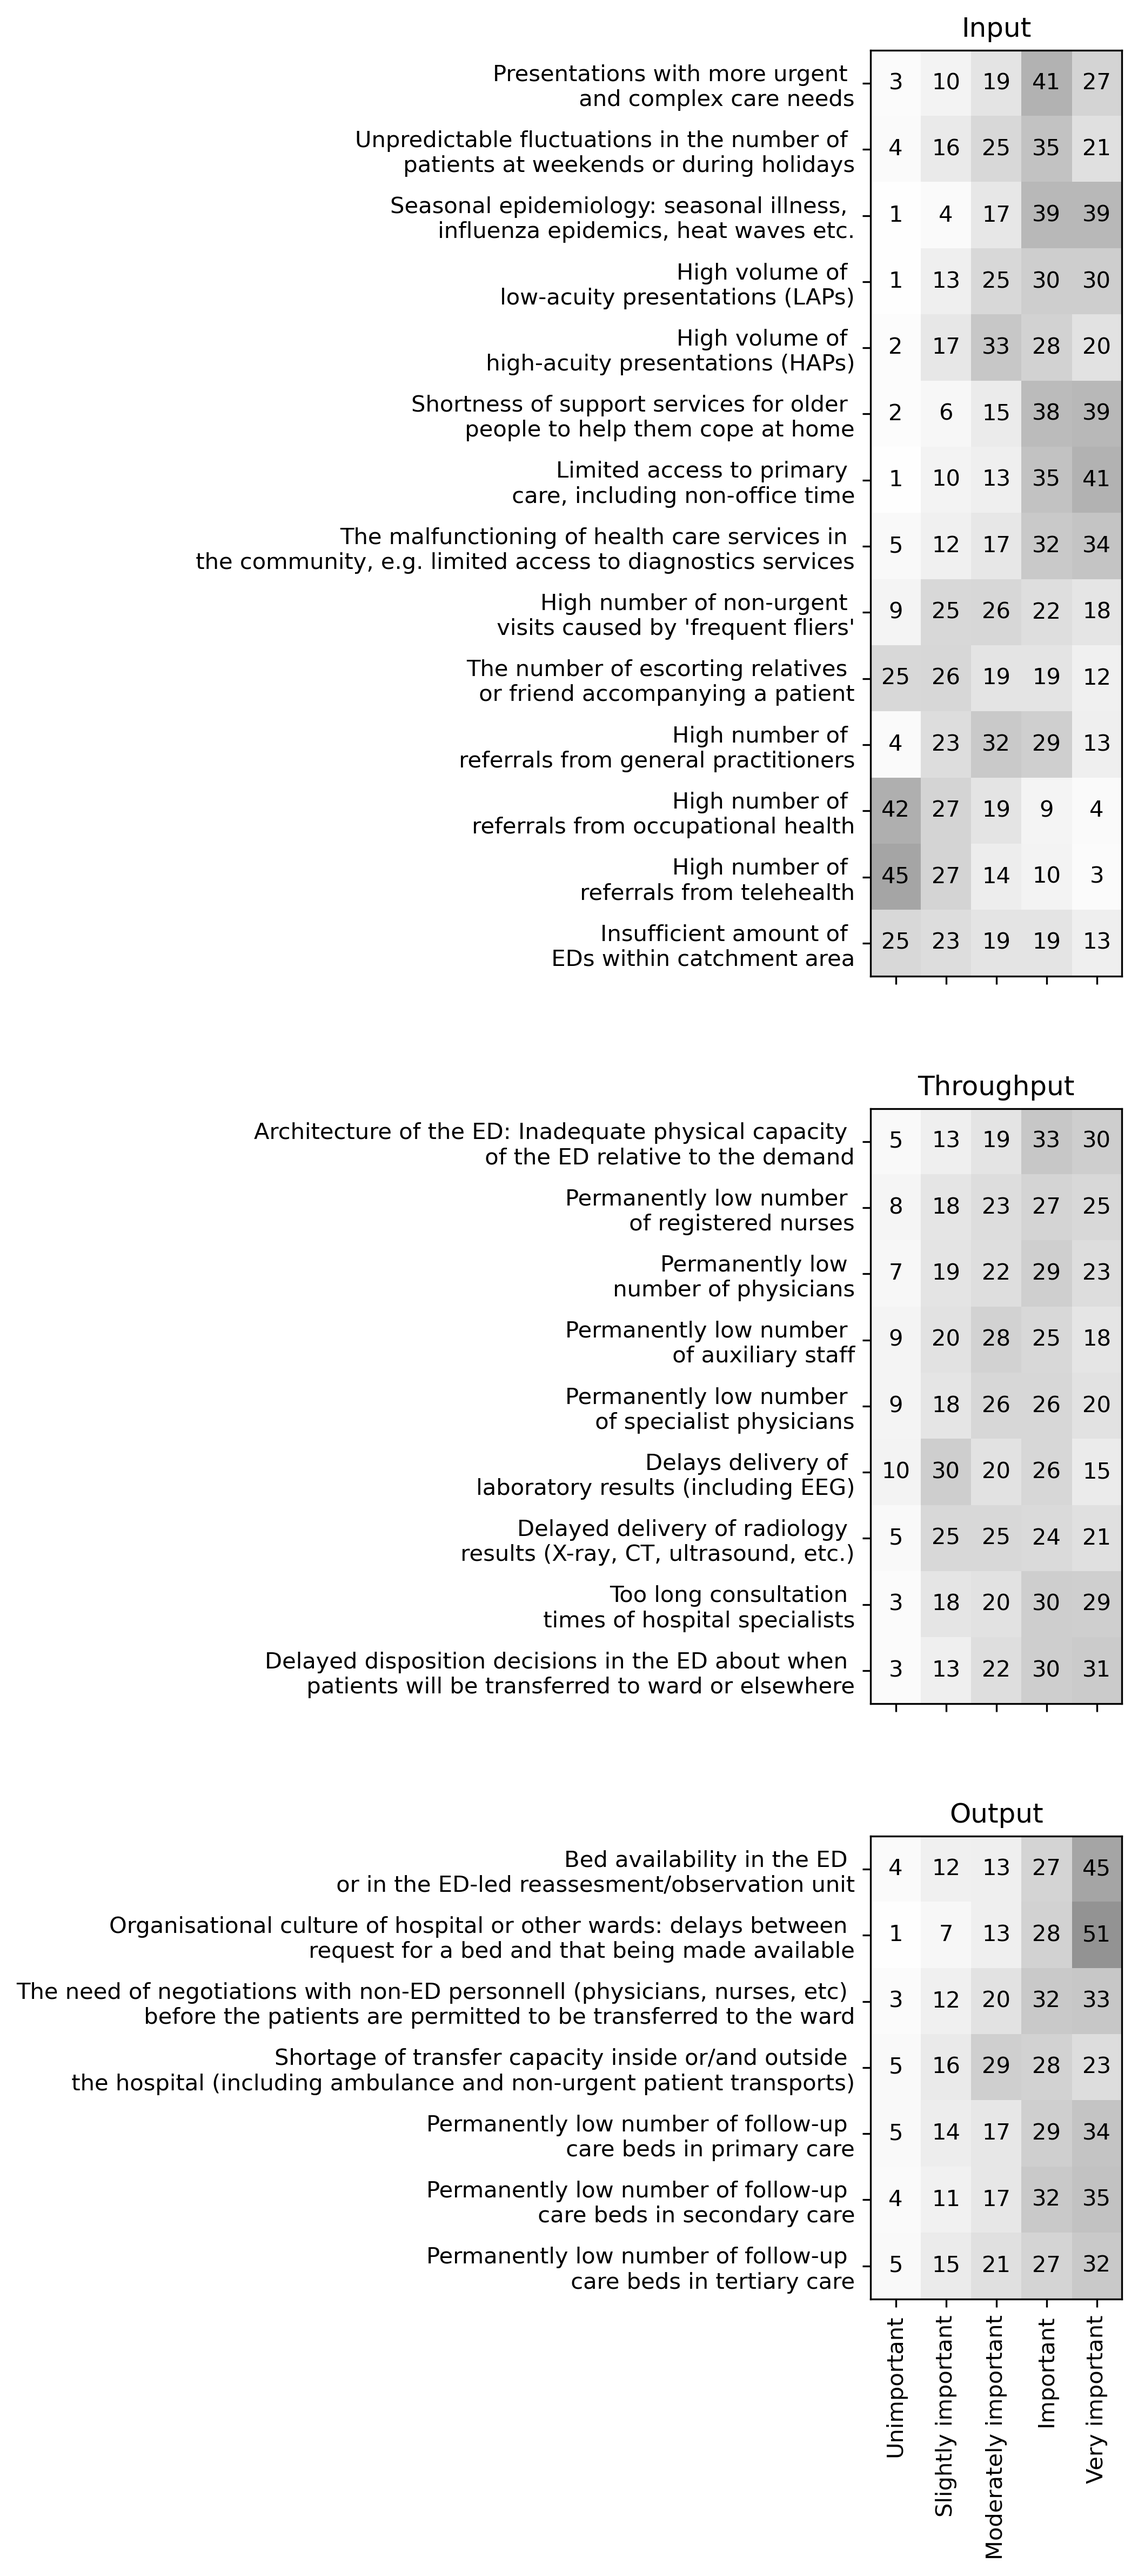
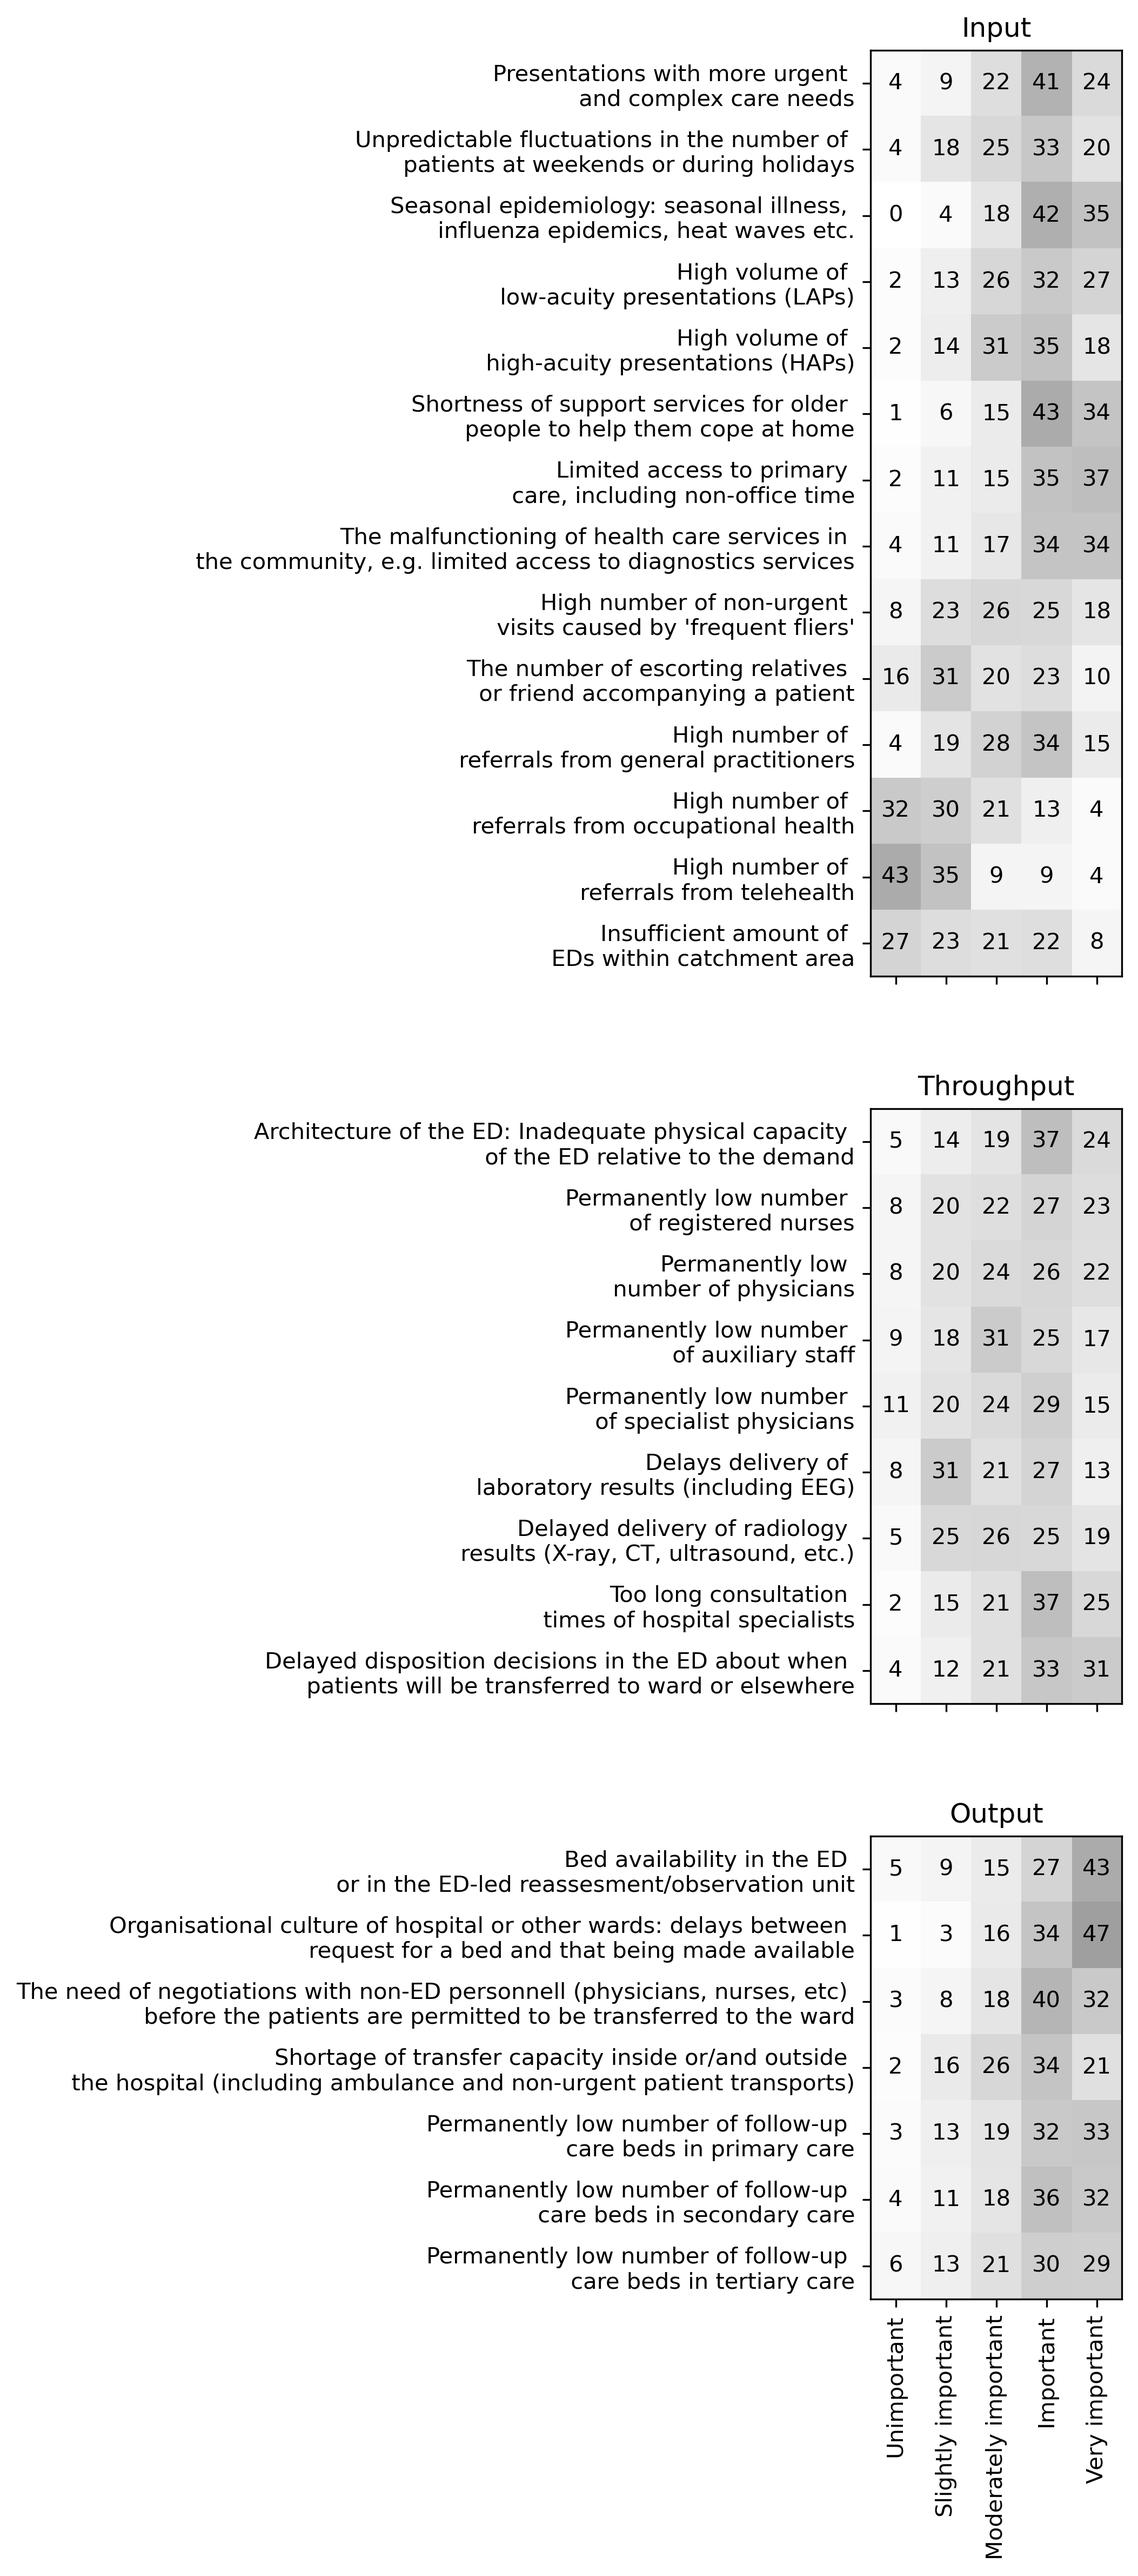
EU-level aggregation for causes plot

Changed region(s): [[0.7716, 0.2797, 0.8333, 0.3418], [0.8642, 0.3107, 0.9259, 0.3418]]

diff --git a/report/manuscript.tex b/report/manuscript.tex
@@ -40,48 +40,39 @@ In this article we aim to address these issues by engaging with the emergency de
 
 Respondent level: Unprocessed respondent data
 
-Hospital level: Mean of the responses in a hospital if there were multiple responses from the same hospital
+Hospital-level mean
 
-Country level: Mean of the hospital level means
+\begin{equation}
+\bar{y}_{jk} = \frac{1}{n_{jk}} \sum_{i=1}^{n_{jk}} y_{ijk}
+\end{equation}
 
-Europe level: Population weighted mean of the country level mean
+where $y_{ijk}$ is response of respondent $i$ in hospital j in country k,
+and $n_{jk}$ is number of respondents in that hospital.
 
-% Individual-Level Mean (ILM)
+Country-level mean (mean of hospital means)
 
-% \[
-% \bar{Y}_{\text{individual}} = \frac{1}{N} \sum_{k=1}^{N} Y_k
-% \]
+\begin{equation}
+\bar{y}{k}^{(H)} = \frac{1}{m_k} \sum{j=1}^{m_k} \bar{y}_{jk}
+\end{equation}
 
-% Facility-Level Mean (FLM)
+where $m_k = number of hospitals in country k$.
 
+(If you prefer the respondent-weighted version instead, use)
 
+\begin{equation}
+\bar{y}{k}^{(R)} = \frac{1}{N_k} \sum{j=1}^{m_k} n_{jk} \, \bar{y}_{jk}
+\end{equation}
 
-% Equal-Weight Mean (EWM)
+with \[N_k = \sum_{j=1}^{m_k} n_{jk}.\]
 
-% \[
-% \bar{x}_i = \frac{1}{n_i} \sum_{j=1}^{n_i} x_{ij}
-% \]
+Europe-level population-weighted mean
 
-% \[
-% \bar{x}_{\text{equal}} = \frac{1}{N} \sum_{i=1}^{N} \bar{x}_i
-% \]
+\begin{equation}
+\bar{y}{E} = \frac{\sum{k=1}^{K} w_k \, \bar{y}{k}^{(H)}}{\sum{k=1}^{K} w_k}
+\end{equation}
 
-% Population-Standardized Mean (PSM)
-
-% % Global population-weighted mean
-% \[
-% \bar{Y}_{\text{global}} = \sum_{j=1}^{J} w_j \, \bar{Y}_j
-% \]
-
-% % Country-level mean
-% \[
-% \bar{Y}_j = \frac{1}{n_j} \sum_{i=1}^{n_j} Y_{ij}
-% \]
-
-% % Population weight
-% \[
-% w_j = \frac{P_j}{\sum_{k=1}^{J} P_k}
-% \]
+where $w_k$ is population weight (or sample weight) for country k,
+and K is number of countries in Europe.
 
 
 
@@ -107,7 +98,7 @@ Europe level: Population weighted mean of the country level mean
 \begin{figure}[p]
     \centering
         \includegraphics[height=1.0\textheight]{../output/plots/causes}
-        \caption{causes}
+        \caption{Perceived causes of crowding based on EU-level statistics.}
         \label{fig:causes}
 \end{figure}
 
